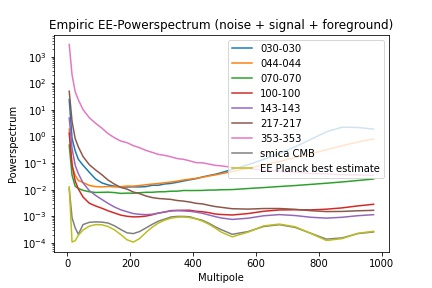
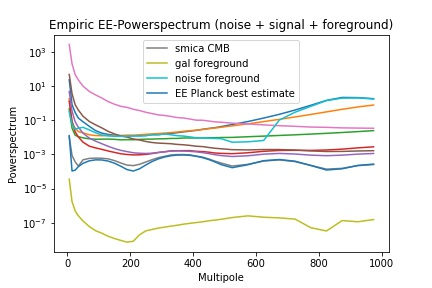
successfull testrun

diff --git a/component_separation/run_smica.py b/component_separation/run_smica.py
@@ -10,26 +10,29 @@ Both is fed to SMICA, which uses these for generating a model, which eventually 
 simulation of cmb sky + noise + residual foreground « /global/cfs/cdirs/cmb/data/planck2020/npipe/npipe6v20%s_sim/%04d/npipe6v20%s_%03d_map.fits
 Noisefix maps « /global/cfs/cdirs/cmb/data/planck2020/npipe/npipe6v20%s_sim/%04d/noisefix/noisefix_%03d%s_%04d.fits
 account for low noise coming from simulation maps.
+
+ - apply scarf to lensscarf
+ 
  - smooth spectra, and see if spikes remain, and if weights change
 """
 __author__ = "S. Belkner"
 
 import json
+import os
 import platform
-import pandas as pd
-from component_separation.cs_util import Planckf, Planckr, Plancks
 
 import matplotlib.pyplot as plt
-import healpy as hp
 import numpy as np
-import os
+import pandas as pd
+import smica
 
-from component_separation.cs_util import Config as csu, Constants as const, Helperfunctions as hpf
+import component_separation
 import component_separation.io as io
 import component_separation.powspec as pw
-from component_separation.cs_util import Planckf, Plancks
-import smica
-import component_separation
+from component_separation.cs_util import Config as csu
+from component_separation.cs_util import Constants as const
+from component_separation.cs_util import Helperfunctions as hpf
+from component_separation.cs_util import Planckf, Planckr, Plancks
 
 with open(os.path.dirname(component_separation.__file__)+'/config.json', "r") as f:
     cf = json.load(f)
@@ -198,13 +201,6 @@ def fit_model_to_cov(model, stats, nmodes, maxiter=50, noise_fix=False, noise_te
 nmodes = calc_nmodes(bins, mask)
 cov_ltot_bnd = hpf.bin_it(cov_ltot, bins=bins, offset=offset)
 
-# %% Plot empirical cov matrix
-plt.yscale('log')
-for var in range(cov_ltot_bnd.shape[0]):
-    plt.plot(np.mean(bins, axis=1), cov_ltot_bnd[var,var,:])
-    # plt.plot(cov[var,var,offst:int(bins[-1][1])+offst])
-plt.show()
-
 
 # %%
 smica_model, gal, cov_lN_bnd, C_lS_bnd = build_smica_model(cov_ltot_bnd.shape[0], len(nmodes), C_lN)
@@ -232,8 +228,10 @@ plt.yscale('log')
 for var1 in range(C_lS_bnd.shape[0]):
     for var2 in range(C_lS_bnd.shape[0]):
         if var1==var2:
-            plt.plot(np.mean(bins, axis=1), np.abs(cov_ltot_bnd[var1,var2,:]), label="{}-{}".format(label[var1], label[var2]))
+            plt.plot(np.mean(bins, axis=1), np.abs(cov_ltot_bnd[var1,var2,:]))#, label="{}-{}".format(label[var1], label[var2]))
 plt.plot(np.mean(bins, axis=1), smica_model.get_comp_by_name('cmb').powspec()[0][0], label= 'smica CMB')
+plt.plot(np.mean(bins, axis=1), smica_model.get_comp_by_name('gal').powspec()[0][0], label= 'gal foreground')
+plt.plot(np.mean(bins, axis=1), smica_model.get_comp_by_name('noise').powspec()[0], label= 'noise foreground')
 plt.plot(np.mean(bins, axis=1), C_lS_bnd[0, 0, :], label='EE Planck best estimate')
 plt.xlabel('Multipole')
 plt.legend()
@@ -241,21 +239,8 @@ plt.ylabel('Powerspectrum')
 plt.savefig("Empiric_EE-Spectra.jpg")
 
 
-# %%
+# %% Plot empirical cov matrix
 plt.yscale('log')
-plt.title('EE-Noise from diffmap + CMB EE-Signal from Planck-best-fit')
-for var1 in range(C_lS_bnd.shape[0]):
-    for var2 in range(C_lS_bnd.shape[0]):
-        plt.plot(np.mean(bins, axis=1), C_lS_bnd[var1, var1, :] + cov_lN_bnd[var1], label="{}-{}".format(label[var1], label[var2]))
-        # plt.plot(np.mean(bins, axis=1), cov_lN_bnd[var1], label="{}-{}".format(label[var1], label[var2]))
-        # plt.plot(cov_ltot[var1,var2], label="{}-{}".format(label[var1], label[var2]))
-        
-        plt.plot(np.mean(bins, axis=1), C_lS_bnd[var1, var2, :])#, label="{}-{}".format(label[var1], label[var2]))
-       
-plt.xlabel('Multipole')
-plt.legend()
-
-plt.ylabel('Powerspectrum')
-
-
-# %%
+for var in range(cov_ltot_bnd.shape[0]):
+    plt.plot(np.mean(bins, axis=1), cov_ltot_bnd[var,var,:])
+plt.show()
